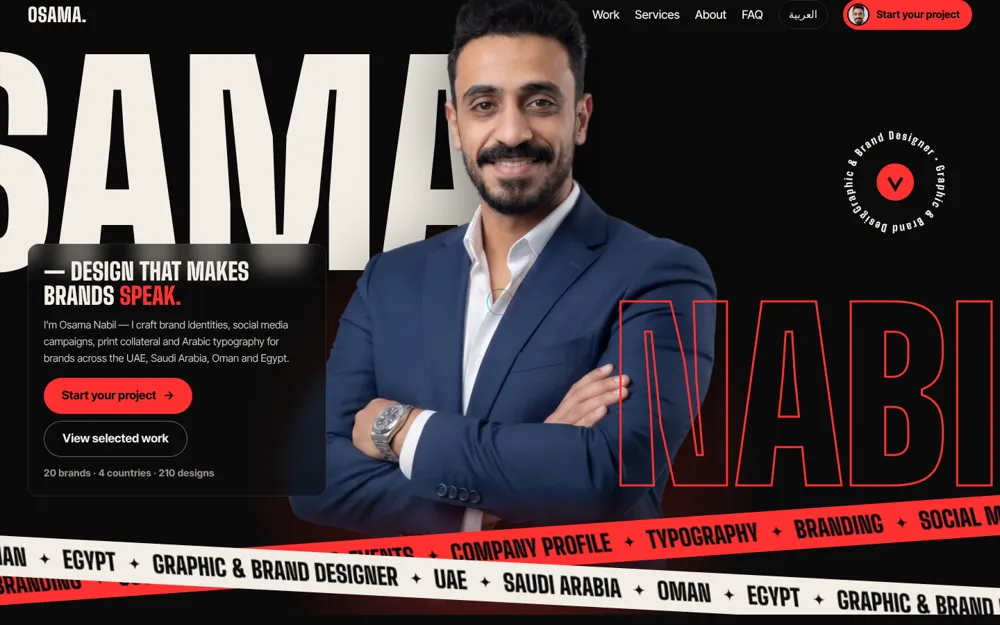
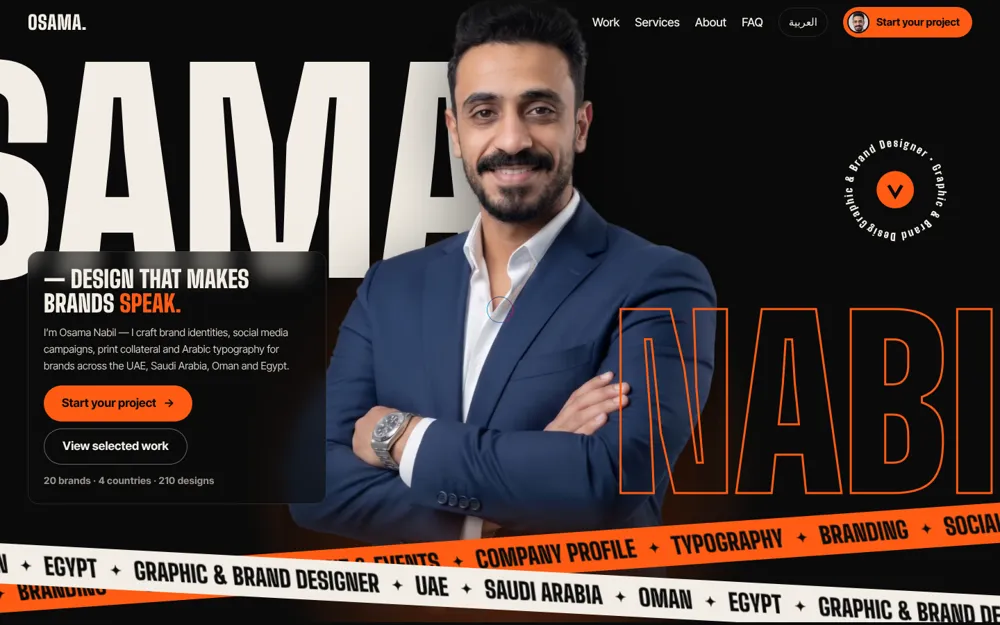
Design 7: switch accent to Design 6 orange; add to chooser
Claude-Session: https://claude.ai/code/session_01NPXGMpMbRi3crW39SXiqZS

diff --git a/design-7/style.css b/design-7/style.css
@@ -6,15 +6,15 @@
   --fg: #f2ede4;
   --muted: #9a948b;
   --line: #2a2a2a;
-  --red: #ff3131;
+  --accent: #ff5b14;
   --max: 1320px;
   --display: 'Big Shoulders Display', Impact, sans-serif;
   --sans: 'Inter Tight', system-ui, -apple-system, 'Segoe UI', sans-serif;
-  --cur: #ff3131;
-  --cur-hot: rgba(255, 49, 49, .9);
+  --cur: #ff5b14;
+  --cur-hot: rgba(255, 91, 20, .9);
   --lb-bg: rgba(11, 11, 11, .97);
-  --lb-accent: #ff3131;
-  --f-accent: var(--red); --f-accent-ink: #0b0b0b; --f-card: var(--card); --f-line: var(--line); --f-muted: var(--muted); --f-display: var(--display); --f-max: var(--max); --f-radius: 12px; --f-sticky-bg: rgba(21, 21, 21, .95);
+  --lb-accent: #ff5b14;
+  --f-accent: var(--accent); --f-accent-ink: #0b0b0b; --f-card: var(--card); --f-line: var(--line); --f-muted: var(--muted); --f-display: var(--display); --f-max: var(--max); --f-radius: 12px; --f-sticky-bg: rgba(21, 21, 21, .95);
 }
 [dir="rtl"] { --display: 'Changa', sans-serif; --sans: 'IBM Plex Sans Arabic', system-ui, sans-serif; }
 
@@ -25,9 +25,9 @@ img { max-width: 100%; display: block; }
 a { color: inherit; }
 h1, h2, h3 { margin: 0; font-family: var(--display); font-weight: 900; text-transform: uppercase; }
 [dir="rtl"] h1, [dir="rtl"] h2, [dir="rtl"] h3 { text-transform: none; font-weight: 800; }
-::selection { background: var(--red); color: var(--bg); }
+::selection { background: var(--accent); color: var(--bg); }
 .sr-only { position: absolute; width: 1px; height: 1px; margin: -1px; overflow: hidden; clip: rect(0 0 0 0); white-space: nowrap; }
-.kicker { margin: 0 0 12px; color: var(--red); font-size: 13px; font-weight: 700; letter-spacing: .22em; text-transform: uppercase; }
+.kicker { margin: 0 0 12px; color: var(--accent); font-size: 13px; font-weight: 700; letter-spacing: .22em; text-transform: uppercase; }
 [dir="rtl"] .kicker { letter-spacing: 0; font-size: 15px; }
 .arr { display: inline-block; }
 [dir="rtl"] .arr { transform: scaleX(-1); }
@@ -37,28 +37,28 @@ h1, h2, h3 { margin: 0; font-family: var(--display); font-weight: 900; text-tran
 .nav__brand { font-family: 'Big Shoulders Display', sans-serif; font-weight: 900; font-size: 28px; letter-spacing: .02em; text-decoration: none; }
 .nav__links { display: flex; gap: 22px; margin-inline-start: auto; }
 .nav__links a { text-decoration: none; font-weight: 500; }
-.nav__links a:hover { color: var(--red); }
+.nav__links a:hover { color: var(--accent); }
 .nav__lang { font: inherit; font-size: 15px; background: transparent; border: 1px solid var(--line); color: inherit; border-radius: 999px; padding: 8px 14px; cursor: pointer; }
-.nav__cta { display: inline-flex; align-items: center; gap: 10px; min-height: 44px; padding: 0 18px 0 6px; border-radius: 999px; background: var(--red); color: var(--bg); font-weight: 700; text-decoration: none; font-size: 15px; }
+.nav__cta { display: inline-flex; align-items: center; gap: 10px; min-height: 44px; padding: 0 18px 0 6px; border-radius: 999px; background: var(--accent); color: var(--bg); font-weight: 700; text-decoration: none; font-size: 15px; }
 [dir="rtl"] .nav__cta { padding: 0 6px 0 18px; }
 .nav__cta img { width: 32px; height: 32px; border-radius: 50%; object-fit: cover; border: 2px solid var(--bg); }
 
-.btn { display: inline-flex; align-items: center; gap: 10px; min-height: 52px; padding: 0 26px; border-radius: 999px; background: var(--red); color: var(--bg); font: inherit; font-weight: 700; text-decoration: none; border: 0; cursor: pointer; }
+.btn { display: inline-flex; align-items: center; gap: 10px; min-height: 52px; padding: 0 26px; border-radius: 999px; background: var(--accent); color: var(--bg); font: inherit; font-weight: 700; text-decoration: none; border: 0; cursor: pointer; }
 .btn--ghost { background: rgba(11, 11, 11, .45); color: var(--fg); border: 1.5px solid rgba(242, 237, 228, .4); backdrop-filter: blur(6px); }
 .btn--sm { min-height: 44px; padding: 0 20px; font-size: 15px; }
 
 /* Hero — name / cut-out / outlined name sandwich */
 .hero { position: relative; height: 100vh; height: 100svh; min-height: 660px; overflow: hidden; contain: paint; }
-.hero__glow { position: absolute; left: 50%; bottom: -20%; width: 90vh; height: 90vh; margin-left: -45vh; border-radius: 50%; background: radial-gradient(circle, rgba(255, 49, 49, .55), rgba(255, 49, 49, 0) 65%); filter: blur(10px); }
+.hero__glow { position: absolute; left: 50%; bottom: -20%; width: 90vh; height: 90vh; margin-left: -45vh; border-radius: 50%; background: radial-gradient(circle, rgba(255, 91, 20, .55), rgba(255, 91, 20, 0) 65%); filter: blur(10px); }
 .hero__stage { position: absolute; inset: 0; }
 .hero__back, .hero__front { position: absolute; left: 50%; white-space: nowrap; font-family: var(--display); font-weight: 900; text-transform: uppercase; line-height: .8; letter-spacing: -.01em; will-change: transform; }
 [dir="rtl"] .hero__back, [dir="rtl"] .hero__front { text-transform: none; line-height: 1.1; font-weight: 800; }
 .hero__back { top: 11vh; font-size: clamp(130px, 27vw, 470px); color: var(--fg); transform: translateX(calc(-50% + var(--bx, 0px))); }
-.hero__front { bottom: 20vh; z-index: 3; font-size: clamp(110px, 23vw, 400px); color: transparent; -webkit-text-stroke: 3px var(--red); transform: translateX(calc(-50% + var(--fx, 0px))); }
+.hero__front { bottom: 20vh; z-index: 3; font-size: clamp(110px, 23vw, 400px); color: transparent; -webkit-text-stroke: 3px var(--accent); transform: translateX(calc(-50% + var(--fx, 0px))); }
 .hero__cut { position: absolute; z-index: 2; left: 50%; bottom: 0; height: min(90vh, 980px); width: auto; max-width: none; transform: translateX(-50%) translate3d(var(--px, 0px), var(--py, 0px), 0) scale(var(--cs, 1)); transform-origin: 50% 100%; filter: drop-shadow(0 30px 50px rgba(0, 0, 0, .55)); -webkit-mask-image: linear-gradient(#000 80%, transparent 99%); mask-image: linear-gradient(#000 80%, transparent 99%); will-change: transform; }
 .tapes { position: absolute; inset: auto 0 0; height: 150px; z-index: 4; pointer-events: none; }
 .tape { position: absolute; left: -10%; right: -10%; height: 58px; overflow: hidden; display: flex; align-items: center; }
-.tape--a { bottom: 64px; background: var(--red); color: var(--bg); transform: rotate(-4deg); }
+.tape--a { bottom: 64px; background: var(--accent); color: var(--bg); transform: rotate(-4deg); }
 .tape--b { bottom: 18px; background: var(--fg); color: var(--bg); transform: rotate(3deg); }
 .tape__track { display: flex; width: max-content; direction: ltr; white-space: nowrap; font-family: var(--display); font-weight: 900; font-size: 34px; text-transform: uppercase; will-change: transform; }
 [dir="rtl"] .tape__track { text-transform: none; font-weight: 800; }
@@ -66,14 +66,14 @@ h1, h2, h3 { margin: 0; font-family: var(--display); font-weight: 900; text-tran
 .tape__track span::after { content: '✦'; font-size: 20px; }
 .badge { position: absolute; z-index: 5; top: 22vh; inset-inline-end: clamp(16px, 5vw, 80px); width: clamp(110px, 11vw, 160px); height: auto; overflow: visible; }
 .badge text { font-family: 'Big Shoulders Display', sans-serif; font-weight: 900; font-size: 19px; letter-spacing: 2.5px; fill: var(--fg); }
-.badge circle { fill: var(--red); }
+.badge circle { fill: var(--accent); }
 .badge__arrow { stroke: var(--bg); transform-origin: 100px 100px; transform: rotate(90deg); }
 .badge textPath { will-change: transform; }
 #badge > text { transform-origin: 100px 100px; transform: rotate(var(--br, 0deg)); }
 .hero__panel { position: absolute; z-index: 5; inset-inline-start: clamp(16px, 3vw, 40px); bottom: 170px; width: min(430px, 34vw); padding: 22px; border-radius: 16px; background: rgba(11, 11, 11, .62); border: 1px solid rgba(242, 237, 228, .12); backdrop-filter: blur(12px); }
 .hero__title { font-size: clamp(26px, 2.4vw, 38px); line-height: 1; margin-bottom: 12px; }
 [dir="rtl"] .hero__title { line-height: 1.4; }
-.hero__title em { font-style: normal; color: var(--red); }
+.hero__title em { font-style: normal; color: var(--accent); }
 .hero__lead { margin: 0 0 16px; color: #cfc9be; font-size: 15px; }
 .hero__ctas { display: flex; flex-wrap: wrap; gap: 10px; }
 .hero__panel .f-proof { margin-top: 12px; }
@@ -84,22 +84,22 @@ h1, h2, h3 { margin: 0; font-family: var(--display); font-weight: 900; text-tran
 .deck__heading { font-size: clamp(46px, 5.6vw, 92px); line-height: .9; margin-bottom: 28px; }
 [dir="rtl"] .deck__heading { line-height: 1.3; }
 .deck__now { display: flex; gap: 18px; align-items: flex-start; min-height: 240px; }
-.deck__num { font-family: 'Big Shoulders Display', sans-serif; font-weight: 900; font-size: clamp(90px, 10vw, 170px); line-height: .78; color: var(--red); font-variant-numeric: tabular-nums; }
+.deck__num { font-family: 'Big Shoulders Display', sans-serif; font-weight: 900; font-size: clamp(90px, 10vw, 170px); line-height: .78; color: var(--accent); font-variant-numeric: tabular-nums; }
 .deck__num.tick, .deck__title.tick { animation: tick .5s cubic-bezier(.2, .8, .2, 1); }
 @keyframes tick { from { transform: translateY(30%) skewY(6deg); opacity: 0; } to { transform: none; opacity: 1; } }
 .deck__title { font-size: clamp(28px, 3vw, 48px); line-height: .95; }
 [dir="rtl"] .deck__title { line-height: 1.35; }
-.deck__meta { margin: 8px 0 6px; color: var(--red); font-size: 14px; font-weight: 700; }
+.deck__meta { margin: 8px 0 6px; color: var(--accent); font-size: 14px; font-weight: 700; }
 .deck__desc { margin: 0 0 16px; color: var(--muted); font-size: 15px; max-width: 420px; }
 .deck__bar { display: block; height: 3px; margin-top: 26px; background: var(--line); border-radius: 3px; overflow: hidden; max-width: 460px; }
-.deck__bar i { display: block; height: 100%; background: var(--red); transform-origin: left; transform: scaleX(var(--dp, 0)); }
+.deck__bar i { display: block; height: 100%; background: var(--accent); transform-origin: left; transform: scaleX(var(--dp, 0)); }
 [dir="rtl"] .deck__bar i { transform-origin: right; }
 .deck__scene { perspective: 1400px; display: grid; place-items: center; height: 100%; }
 .deck__pile { position: relative; width: min(430px, 34vw); aspect-ratio: 4 / 5; transform-style: preserve-3d; }
 .deck__card { position: absolute; inset: 0; border-radius: 18px; overflow: hidden; background: var(--card); pointer-events: none; box-shadow: 0 30px 70px rgba(0, 0, 0, .65); transform-origin: 50% 100%; will-change: transform, opacity; }
 .deck__card img { width: 100%; height: 100%; object-fit: cover; }
 .deck__pile { cursor: pointer; border-radius: 18px; }
-.deck__pile:focus-visible { outline: 3px solid var(--red); outline-offset: 8px; }
+.deck__pile:focus-visible { outline: 3px solid var(--accent); outline-offset: 8px; }
 
 /* Spotlight services */
 .spot { position: relative; height: 340vh; }
@@ -110,7 +110,7 @@ h1, h2, h3 { margin: 0; font-family: var(--display); font-weight: 900; text-tran
 .spot__list a { position: relative; display: block; font-family: var(--display); font-weight: 900; text-transform: uppercase; text-decoration: none; font-size: clamp(34px, 4.6vw, 78px); line-height: .96; color: transparent; -webkit-text-stroke: 1.5px rgba(242, 237, 228, .45); transition: color .35s, -webkit-text-stroke-color .35s, transform .35s; }
 [dir="rtl"] .spot__list a { text-transform: none; font-weight: 800; line-height: 1.3; font-size: clamp(30px, 4vw, 64px); }
 .spot__list a::before { content: '0' counter(s); position: absolute; top: .4em; inset-inline-start: -2.2em; font-family: var(--sans); font-size: 13px; font-weight: 700; -webkit-text-stroke: 0; color: var(--muted); }
-.spot__list li.is-on a { color: var(--red); -webkit-text-stroke-color: var(--red); transform: translateX(14px); }
+.spot__list li.is-on a { color: var(--accent); -webkit-text-stroke-color: var(--accent); transform: translateX(14px); }
 [dir="rtl"] .spot__list li.is-on a { transform: translateX(-14px); }
 .spot__list a:hover { -webkit-text-stroke-color: var(--fg); }
 .spot__card { margin: 0; perspective: 1000px; }
@@ -129,7 +129,7 @@ h1, h2, h3 { margin: 0; font-family: var(--display); font-weight: 900; text-tran
 .track__rail { display: flex; gap: 3vw; align-items: center; direction: ltr; padding-inline: 8vw; perspective: 1200px; will-change: transform; }
 .track__step { flex: 0 0 min(560px, 46vw); min-height: 300px; padding: 30px; border-radius: 18px; background: var(--card); border: 1px solid var(--line); display: flex; flex-direction: column; will-change: transform; }
 [dir="rtl"] .track__step { direction: rtl; }
-.track__step:nth-child(odd) { background: var(--red); color: var(--bg); border-color: var(--red); }
+.track__step:nth-child(odd) { background: var(--accent); color: var(--bg); border-color: var(--accent); }
 .track__step:nth-child(odd) p { color: rgba(11, 11, 11, .75); }
 .track__step b { font-family: 'Big Shoulders Display', sans-serif; font-weight: 900; font-size: 90px; line-height: .8; }
 .track__step h3 { margin: auto 0 8px; font-size: clamp(28px, 2.8vw, 42px); line-height: 1; }
@@ -138,31 +138,31 @@ h1, h2, h3 { margin: 0; font-family: var(--display); font-weight: 900; text-tran
 
 /* Poster */
 .poster { display: grid; grid-template-columns: .9fr 1.1fr; gap: clamp(24px, 4vw, 64px); align-items: center; padding-top: clamp(90px, 10vw, 150px); }
-.poster__img { position: relative; margin: 0; border-radius: 18px; overflow: hidden; aspect-ratio: 4 / 5; background: var(--red); clip-path: inset(var(--wipe, 0%) 0 0 0 round 18px); transform: rotateX(var(--rx, 0deg)) rotateY(var(--ry, 0deg)); transition: transform .25s ease-out; }
+.poster__img { position: relative; margin: 0; border-radius: 18px; overflow: hidden; aspect-ratio: 4 / 5; background: var(--accent); clip-path: inset(var(--wipe, 0%) 0 0 0 round 18px); transform: rotateX(var(--rx, 0deg)) rotateY(var(--ry, 0deg)); transition: transform .25s ease-out; }
 .poster__img img { width: 100%; height: 100%; object-fit: cover; object-position: 50% 12%; filter: grayscale(1) contrast(1.15); mix-blend-mode: multiply; transition: filter .6s; }
 .poster__img:hover img { filter: none; mix-blend-mode: normal; }
 .poster__dots { position: absolute; inset: 0; background-image: radial-gradient(circle, rgba(11, 11, 11, .4) 1px, transparent 1.7px); background-size: 6px 6px; pointer-events: none; transition: opacity .6s; }
 .poster__img:hover .poster__dots { opacity: 0; }
 .poster__img figcaption { position: absolute; inset: auto 14px 14px; display: flex; justify-content: space-between; gap: 10px; padding: 10px 14px; border-radius: 10px; background: rgba(11, 11, 11, .78); font-weight: 700; font-size: 14px; }
-.poster__img figcaption span + span { color: var(--red); }
+.poster__img figcaption span + span { color: var(--accent); }
 .poster__title { font-size: clamp(44px, 5.6vw, 92px); line-height: .92; margin-bottom: 24px; }
 [dir="rtl"] .poster__title { line-height: 1.3; }
 .poster__read { margin: 0; font-size: clamp(21px, 2.3vw, 32px); line-height: 1.35; font-weight: 700; }
 .poster__read .rw { opacity: .16; transition: opacity .25s, color .25s; }
 .poster__read .rw.on { opacity: 1; }
-.poster__read .rw.now { color: var(--red); }
+.poster__read .rw.now { color: var(--accent); }
 .stats { display: grid; grid-template-columns: repeat(4, 1fr); margin-top: 36px; border-top: 1px solid var(--line); }
 .stats div { padding: 18px 14px 0 0; }
-.stats b { display: block; font-family: 'Big Shoulders Display', sans-serif; font-weight: 900; font-size: clamp(46px, 5vw, 80px); line-height: 1; color: var(--red); }
+.stats b { display: block; font-family: 'Big Shoulders Display', sans-serif; font-weight: 900; font-size: clamp(46px, 5vw, 80px); line-height: 1; color: var(--accent); }
 .stats span { color: var(--muted); font-size: 13px; }
 
 /* Kinetic footer band */
 .talk { display: block; margin-top: clamp(90px, 10vw, 150px); padding: 14px 0; overflow: hidden; border-block: 1px solid var(--line); text-decoration: none; transition: background .3s, color .3s; }
-.talk:hover { background: var(--red); color: var(--bg); }
+.talk:hover { background: var(--accent); color: var(--bg); }
 .talk__track { display: flex; width: max-content; direction: ltr; white-space: nowrap; font-family: var(--display); font-weight: 900; text-transform: uppercase; font-size: clamp(70px, 12vw, 200px); line-height: 1; will-change: transform; }
 [dir="rtl"] .talk__track { text-transform: none; font-weight: 800; line-height: 1.3; }
 .talk__track span { display: inline-flex; align-items: center; gap: .25em; padding-inline-end: .25em; }
-.talk__track span::after { content: '✦'; color: var(--red); font-size: .45em; }
+.talk__track span::after { content: '✦'; color: var(--accent); font-size: .45em; }
 .talk:hover .talk__track span::after { color: var(--bg); }
 
 .foot { display: flex; justify-content: space-between; flex-wrap: wrap; gap: 16px; padding-block: 40px; color: var(--muted); font-size: 14px; }

diff --git a/index.html b/index.html
@@ -29,7 +29,7 @@
 <body>
   <main>
     <h1>Osama Nabil — portfolio designs</h1>
-    <p class="sub">Six directions built from the same content: 21 projects, 210 designs, English and Arabic, the same SEO setup and the same project-brief funnel. Designs 4–6 add scroll-driven 3D and motion. Open each one, then pick the design that goes live.</p>
+    <p class="sub">Seven directions built from the same content: 21 projects, 210 designs, English and Arabic, the same SEO setup and the same project-brief funnel. Designs 4–7 add scroll-driven 3D and motion. Open each one, then pick the design that goes live.</p>
     <div class="grid">
       <a class="card" href="design-1/">
         <img src="assets/img/previews/design-1.webp" alt="Design 1 preview" width="1000" height="625">
@@ -60,6 +60,11 @@
         <img src="assets/img/previews/design-6.webp" alt="Design 6 preview" width="1000" height="625">
         <div class="b"><h2>6 · Kinetic <small>3D</small></h2><p>Isometric wall of designs that flattens as you scroll, speed-reactive type, a 3D coverflow and text that lights up as you read.</p>
           <div class="sw"><i style="background:#0c0c0c"></i><i style="background:#ff5b14"></i><i style="background:#f4efe6"></i></div></div>
+      </a>
+      <a class="card" href="design-7/">
+        <img src="assets/img/previews/design-7.webp" alt="Design 7 preview" width="1000" height="625">
+        <div class="b"><h2>7 · Signal <small>3D</small></h2><p>Same school as 6, with his cut-out portrait standing between the giant name layers, speed tapes, a 3D card deck, spotlight services and a halftone poster.</p>
+          <div class="sw"><i style="background:#0b0b0b"></i><i style="background:#ff5b14"></i><i style="background:#f2ede4"></i></div></div>
       </a>
     </div>
   </main>

diff --git a/README.md b/README.md
@@ -14,6 +14,7 @@ pre-rendered for search engines and LLM crawlers, with a project-brief conversio
 | `design-4/` | Hyperspace (3D) — warp starfield, scroll-driven 3D tunnel through projects, unfolding steps |
 | `design-5/` | Orbit (3D) — orbiting labels, scroll-spun 3D cylinder gallery, stacked services, process cube |
 | `design-6/` | Kinetic (3D) — isometric image wall, velocity-driven type, 3D coverflow, scroll-read text |
+| `design-7/` | Signal (3D) — same school as 6; portrait cut-out between giant name layers, speed tapes, 3D deck, spotlight services, halftone poster |
 | `assets/js/data.js` | Projects: titles/descriptions (EN/AR), categories, country, image list `[file, w, h]` |
 | `assets/js/strings.js` | All UI copy EN/AR (pure JSON after `=`, read by `tools/prerender.py`) |
 | `assets/js/core.js` | Profile (name, email), language toggle, lightbox, reveal, count-up |
@@ -62,7 +63,7 @@ For a custom domain: `SITE_URL=https://example.com/ python3 tools/prerender.py`.
 
 1. Copy `design-N/index.html`, `style.css`, `app.js` to the repo root (replacing the chooser `index.html`).
 2. In the copied `index.html`: change `data-base="../"` to `data-base=""` and replace `../assets/` with `assets/`.
-3. Delete `design-1/` … `design-6/` and `assets/img/previews/`.
+3. Delete the other `design-N/` folders and `assets/img/previews/`.
 4. Run `python3 tools/prerender.py` (canonical URLs then point to the root).
 
 ## Deploy (GitHub Pages)
